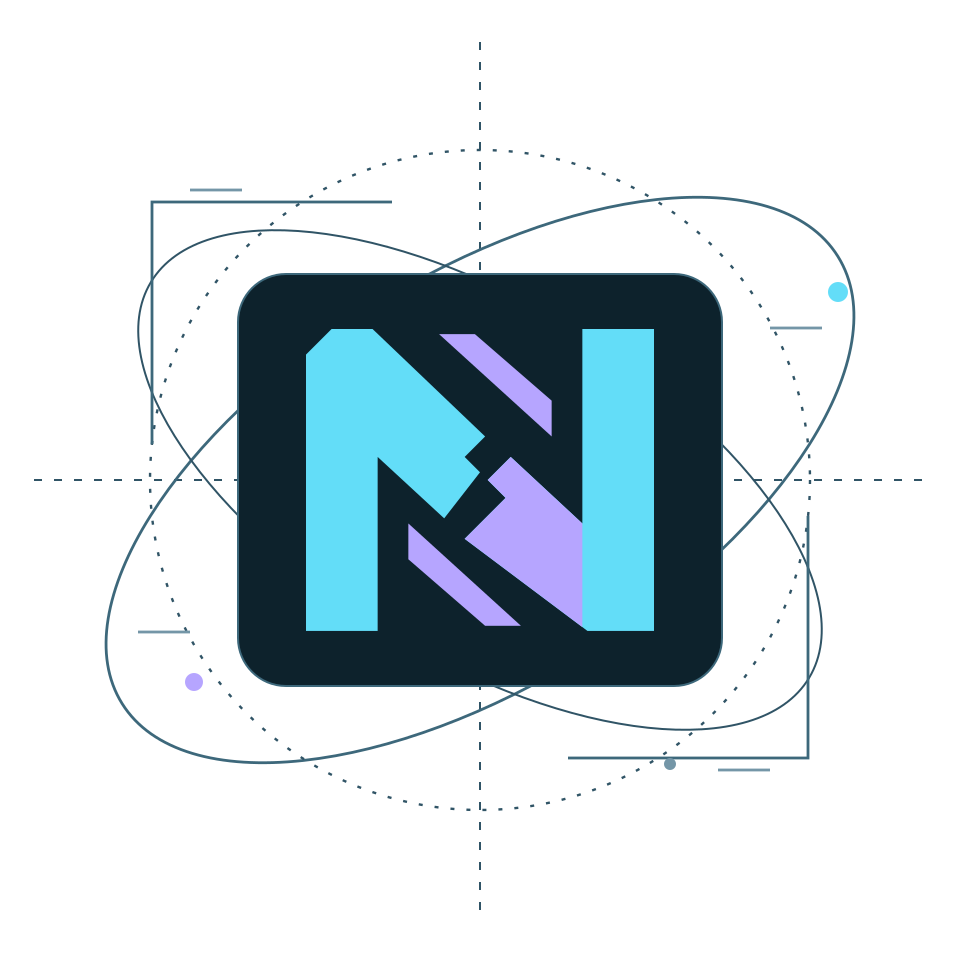
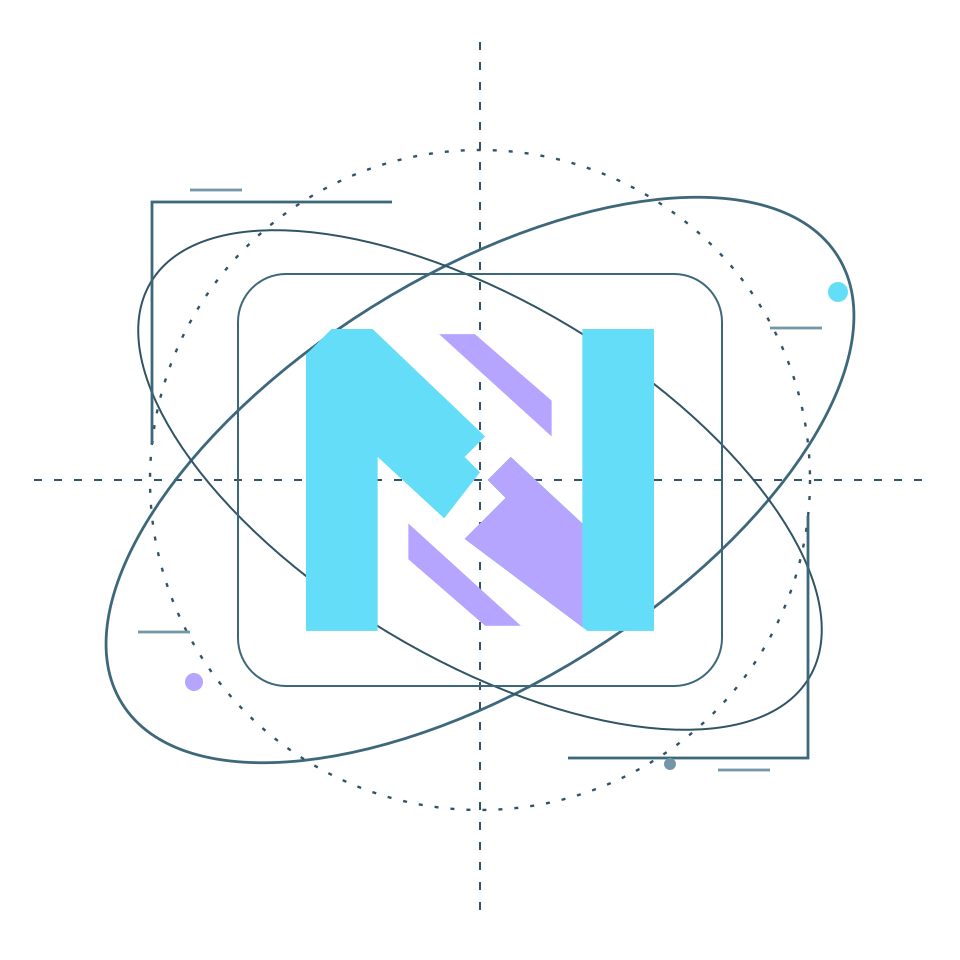
feat(web): refine hero space scene and transparent orbital mark
Keep the hero near-black in both color modes while preserving normal
brand themes below it. Switch navigation branding at the hero boundary
and resynchronize it after hydration, scrolling and viewport changes.

Increase the stellar field to 900 stars and generate organic nebula
masses using D3 density contours, fractal displacement and texture.
Separate static cloud geometry from stellar drift and refresh its
sub-pixel motion once per second instead of repainting it every frame.
Retain independent rotating tracks, orbiting globes and motion controls.

Make the central rounded frame transparent in both schematic variants
and regenerate matching PNGs. Add a foreground-only N asset so static
schematic fragments cannot show through behind the animated D3 tracks.
Record the user-approved visual direction and measured headless 4K
performance limitation without claiming a guaranteed frame rate.

Verification: 102 Vitest tests and all coverage thresholds passed;
ESLint and 32 Chromium checks passed. Verified SVG frame transparency
and zero-alpha PNG interiors, inspected refreshed viewport evidence,
and passed staged whitespace and Gitleaks checks.

Implemented-by: gpt-6.1-sol

Changed region(s): [[0.25, 0.2812, 0.75, 0.7188]]

diff --git a/space.js b/space.js
@@ -4,7 +4,7 @@
 
 const Space = (() => {
   let timer = null, media = null, stars = null, tracks = null, system = null;
-  let time = 0;
+  let time = 0, lastStarFrame = -1000;
   const orbits = [
     { rx: 211, ry: 102, tilt: -32, phase: 0.5, speed: 0.00026, spin: 0.002, radius: 7, color: 'cyan' },
     { rx: 192, ry: 89, tilt: 31, phase: 3.5, speed: -0.00019, spin: -0.0015, radius: 6, color: 'violet' },
@@ -13,7 +13,12 @@ const Space = (() => {
 
   function render(elapsed) {
     time = elapsed;
-    stars.attr('transform', (_d, i) => `translate(${Math.sin(elapsed / 45000 + i) * (i + 1) * 8},${Math.cos(elapsed / 60000 + i) * (i + 1) * 5})`);
+    // This sub-pixel drift is effectively unchanged between nearby frames.
+    // Repaint the distant stars once per second, independently of the orbits.
+    if (elapsed - lastStarFrame >= 1000) {
+      stars.attr('transform', (_d, i) => `translate(${Math.sin(elapsed / 45000 + i) * (i + 1) * 8},${Math.cos(elapsed / 60000 + i) * (i + 1) * 5})`);
+      lastStarFrame = elapsed;
+    }
     tracks.attr('transform', (orbit) => `rotate(${orbit.tilt + elapsed * orbit.spin})`);
     tracks.select('.orbital-globe')
       .attr('cx', (orbit) => Math.cos(orbit.phase + elapsed * orbit.speed) * orbit.rx)
@@ -40,10 +45,10 @@ const Space = (() => {
     if (media) media.removeEventListener('change', syncMotion);
     document.removeEventListener('ngen:motionchange', syncMotion);
     document.removeEventListener('visibilitychange', syncMotion);
-    document.querySelectorAll('.space-field, .orbit-scene').forEach((el) => el.remove());
+    document.querySelectorAll('.space-field, .space-star-field, .orbit-scene').forEach((el) => el.remove());
     system?.classList.remove('space-ready');
     media = stars = tracks = system = null;
-    time = 0;
+    time = 0; lastStarFrame = -1000;
   }
 
   function init() {
@@ -55,11 +60,44 @@ const Space = (() => {
     const field = d3.select(background).append('svg').attr('class', 'space-field')
       .attr('viewBox', '0 0 1600 1000').attr('preserveAspectRatio', 'xMidYMid slice').attr('aria-hidden', 'true');
     const random = d3.randomLcg(0.427);
-    stars = field.selectAll('g').data(d3.range(3)).join('g');
-    stars.selectAll('circle').data(() => d3.range(54).map(() => ({
+    const fieldDefs = field.append('defs');
+    // Static fractal texture is separate from the moving star layers.
+    const texture = fieldDefs.append('filter').attr('id', 'space-cloud-texture')
+      .attr('x', '-25%').attr('y', '-25%').attr('width', '150%').attr('height', '150%');
+    texture.append('feTurbulence').attr('type', 'fractalNoise').attr('baseFrequency', '0.003 0.005')
+      .attr('numOctaves', 3).attr('seed', 31).attr('result', 'structure');
+    texture.append('feDisplacementMap').attr('in', 'SourceGraphic').attr('in2', 'structure')
+      .attr('scale', 120).attr('xChannelSelector', 'R').attr('yChannelSelector', 'G').attr('result', 'shaped');
+    texture.append('feTurbulence').attr('type', 'fractalNoise').attr('baseFrequency', '0.008 0.014')
+      .attr('numOctaves', 3).attr('seed', 17).attr('result', 'grain');
+    texture.append('feColorMatrix').attr('in', 'grain').attr('type', 'matrix')
+      .attr('values', '1 0 0 0 0  0 1 0 0 0  0 0 1 0 0  0.3 0.3 0.3 0 -0.15').attr('result', 'cloud-alpha');
+    texture.append('feComposite').attr('in', 'shaped').attr('in2', 'cloud-alpha').attr('operator', 'in');
+    texture.append('feGaussianBlur').attr('stdDeviation', 2.5);
+    // Unequal, scattered gas concentrations produce branching contours and voids,
+    // not a chain of identical ovals or a constant-width diagonal ribbon.
+    const normal = d3.randomNormal.source(random)(0, 1);
+    const concentrations = [
+      [140, 760, 190, 120, 160], [340, 440, 110, 190, 180],
+      [630, 550, 180, 115, 130], [950, 280, 170, 90, 210],
+      [1270, 520, 110, 180, 150], [1510, 200, 210, 90, 190],
+      [1010, 780, 160, 65, 70],
+    ];
+    const gas = concentrations.flatMap(([x, y, sx, sy, count]) =>
+      d3.range(count).map(() => [x + normal() * sx, y + normal() * sy]));
+    const clouds = d3.contourDensity().x((point) => point[0]).y((point) => point[1])
+      .size([1600, 1000]).bandwidth(48).thresholds(32)(gas);
+    field.append('g').attr('class', 'space-nebula').attr('filter', 'url(#space-cloud-texture)')
+      .selectAll('path').data(clouds).join('path').attr('d', d3.geoPath())
+      .attr('fill', (_cloud, i) => i < clouds.length * 0.75 ? 'var(--space-violet)' : 'var(--space-cyan)')
+      .attr('opacity', (_cloud, i) => 0.012 + (i / clouds.length) * 0.035);
+    const starField = d3.select(background).append('svg').attr('class', 'space-star-field')
+      .attr('viewBox', '0 0 1600 1000').attr('preserveAspectRatio', 'xMidYMid slice').attr('aria-hidden', 'true');
+    stars = starField.selectAll('g.star-layer').data(d3.range(3)).join('g').attr('class', 'star-layer');
+    stars.selectAll('circle').data(() => d3.range(300).map(() => ({
       x: random() * 1660 - 30, y: random() * 1060 - 30,
-      radius: 0.4 + random() * 1.1, opacity: 0.15 + random() * 0.55,
-    }))).join('circle').attr('class', 'space-star')
+      radius: 0.3 + random() ** 3 * 1.8, opacity: 0.12 + random() * 0.76,
+    }))).join('circle').attr('class', 'space-star').attr('fill', 'var(--space-star)')
       .attr('cx', (star) => star.x).attr('cy', (star) => star.y)
       .attr('r', (star) => star.radius).attr('opacity', (star) => star.opacity);
 
@@ -69,9 +107,9 @@ const Space = (() => {
     for (const color of ['cyan', 'violet']) {
       const globe = defs.append('radialGradient').attr('id', `space-globe-${color}`)
         .attr('cx', '30%').attr('cy', '25%').attr('r', '75%');
-      globe.append('stop').attr('offset', '0%').attr('stop-color', 'var(--ngen-text)');
-      globe.append('stop').attr('offset', '32%').attr('stop-color', color === 'cyan' ? 'var(--ngen-accent)' : 'var(--ngen-secondary)');
-      globe.append('stop').attr('offset', '100%').attr('stop-color', 'var(--ngen-surface)');
+      globe.append('stop').attr('offset', '0%').attr('stop-color', 'var(--space-star)');
+      globe.append('stop').attr('offset', '32%').attr('stop-color', `var(--space-${color})`);
+      globe.append('stop').attr('offset', '100%').attr('stop-color', 'var(--space-shadow)');
     }
     scene.append('path').attr('d', 'M-223 0H223M0-219V219').attr('class', 'orbit-reference');
     tracks = scene.selectAll('g.orbit-track').data(orbits).join('g').attr('class', 'orbit-track');

diff --git a/styles.css b/styles.css
@@ -304,7 +304,32 @@ a.chip:hover {
 /* ----------------------------------------------------------------------------
    06. HERO + HUD FURNITURE
    ------------------------------------------------------------------------- */
+/* The user requested deep space in the hero in both modes, not the dashboard. */
+.hero, .nav.over-hero {
+  --bg-0: #020608;
+  --bg-1: #14313D;
+  --panel: rgba(20, 49, 61, 0.85);
+  --panel-solid: #14313D;
+  --panel-2: rgba(27, 64, 80, 0.65);
+  --ink-0: #DDF3F8;
+  --ink-1: #A9C5D0;
+  --ink-2: #A9C5D0;
+  --accent: #63DDF8;
+  --accent-2: #B6A5FF;
+  --accent-ink: #08212B;
+  --accent-dim: rgba(99, 221, 248, 0.08);
+  --line: #315362;
+  --line-strong: #7899A6;
+  --glow: 0 0 34px rgba(99, 221, 248, 0.16);
+}
+.nav.over-hero .brand-mark-dark { display: block; }
+.nav.over-hero .brand-mark-light { display: none; }
 .hero {
+  --space-star: #DDF3F8;
+  --space-cyan: #63DDF8;
+  --space-violet: #B6A5FF;
+  --space-shadow: #0E222C;
+  background: var(--bg-0);
   position: relative;
   min-height: 100svh;
   display: flex;
@@ -321,7 +346,7 @@ a.chip:hover {
   content: '';
   position: absolute;
   inset: 0;
-  background: radial-gradient(ellipse 62% 48% at 50% 42%, var(--accent-dim), transparent 70%);
+  background: radial-gradient(ellipse 100% 100% at 50% 50%, transparent 45%, rgba(0, 0, 0, 0.6));
   pointer-events: none;
 }
 
@@ -1845,33 +1870,34 @@ body.pkg-modal-open { overflow: hidden; }
 
 /* D3 simulation behind the supplied N. The full schematic is the no-JS fallback. */
 .space-background {
-  position: fixed; inset: 0; z-index: 0;
-  pointer-events: none; overflow: hidden; opacity: 0.55;
+  position: absolute; inset: 0; z-index: 0;
+  pointer-events: none; overflow: hidden;
 }
-.space-field { display: block; width: 100%; height: 100%; }
-.space-star { fill: var(--ngen-text); }
-[data-theme='light'] .space-star { fill: var(--ngen-accent); }
+.space-field, .space-star-field {
+  position: absolute; inset: 0; display: block; width: 100%; height: 100%;
+  transform: translateZ(0);
+}
+.space-star { fill: var(--space-star); }
 .orbit-scene { position: absolute; inset: 0; width: 100%; height: 100%; }
 .orbit-path, .orbit-reference {
-  fill: none; stroke: var(--ngen-control-border); stroke-width: 1.2;
+  fill: none; stroke: var(--line-strong); stroke-width: 1.2;
 }
 .orbit-path { opacity: 0.7; }
 .orbit-path-dashed { stroke-dasharray: 2 6; }
-.orbit-reference { stroke: var(--ngen-border); stroke-dasharray: 4 6; }
-.orbital-globe { stroke: var(--ngen-accent); stroke-width: 0.45; }
-.space-ready .orbital-art {
-  position: relative; z-index: 1;
-  clip-path: inset(28.4% 24.6%);
+.orbit-reference { stroke: var(--line); stroke-dasharray: 4 6; }
+.orbital-globe { stroke: var(--space-cyan); stroke-width: 0.45; }
+.orbital-core {
+  display: none; position: absolute; inset: 0; z-index: 1;
+  width: 100%; height: 100%;
 }
+.space-ready .orbital-art { display: none; }
+.space-ready .orbital-core { display: block; }
 .orbital-system {
   position: relative; display: block;
   width: clamp(260px, 42vw, 520px); aspect-ratio: 1;
   pointer-events: none;
 }
 .orbital-art { width: 100%; height: 100%; }
-.orbital-art-light { display: none; }
-[data-theme='light'] .orbital-art-dark { display: none; }
-[data-theme='light'] .orbital-art-light { display: block; }
 .motion-paused .ticker-track, .page-hidden .ticker-track { animation-play-state: paused; }
 .skip-link {
   position: fixed; left: 12px; top: -100px; z-index: 100;

diff --git a/tests/unit/space.test.js b/tests/unit/space.test.js
@@ -13,22 +13,34 @@ afterEach(() => Space.destroy());
 
 it('generates the stellar field and three orbital tracks with a globe on every track', () => {
   Space.init();
-  expect(document.querySelectorAll('.space-background svg')).toHaveLength(1);
+  expect(document.querySelectorAll('.space-background .space-field')).toHaveLength(1);
   expect(document.querySelectorAll('.space-star').length).toBeGreaterThan(80);
   expect(document.querySelectorAll('.orbit-track')).toHaveLength(3);
   expect(document.querySelectorAll('.orbit-track .orbital-globe')).toHaveLength(3);
   expect(document.querySelector('.orbital-system').classList.contains('space-ready')).toBe(true);
 });
+it('generates a dense star field and textured nebula clouds behind the hero', () => {
+  Space.init();
+  expect(document.querySelectorAll('.space-star').length).toBeGreaterThan(500);
+  expect(document.querySelectorAll('.space-nebula path').length).toBeGreaterThan(5);
+  expect(document.querySelectorAll('.space-nebula ellipse')).toHaveLength(0);
+  expect(document.querySelector('.space-field defs feDisplacementMap')).not.toBeNull();
+  expect(document.querySelector('.space-star').closest('svg')).not.toBe(document.querySelector('.space-nebula').closest('svg'));
+  expect(document.querySelector('.space-nebula feTurbulence, .space-field defs feTurbulence')).not.toBeNull();
+});
+
 it('animates tracks, globes and stars, and freezes their positions when paused', async () => {
   window.matchMedia.mockReturnValue({ matches: false, addEventListener() {}, removeEventListener() {} });
   Space.init();
   const track = document.querySelector('.orbit-track');
   const globe = document.querySelector('.orbital-globe');
-  const field = document.querySelector('.space-field g');
-  const before = [track.getAttribute('transform'), globe.getAttribute('cx'), field.getAttribute('transform')];
+  const field = document.querySelector('.star-layer');
+  const fieldTransform = () => field.style.transform || field.getAttribute('transform');
+  const before = [track.getAttribute('transform'), globe.getAttribute('cx'), fieldTransform()];
   await vi.waitFor(() => expect(track.getAttribute('transform')).not.toBe(before[0]));
   expect(globe.getAttribute('cx')).not.toBe(before[1]);
-  expect(field.getAttribute('transform')).not.toBe(before[2]);
+  expect(fieldTransform()).toBe(before[2]); // distant stars need no per-frame repaint
+  await vi.waitFor(() => expect(fieldTransform()).not.toBe(before[2]), { timeout: 1600 });
   document.body.classList.add('motion-paused');
   document.dispatchEvent(new Event('ngen:motionchange'));
   const paused = track.getAttribute('transform');
@@ -57,7 +69,7 @@ it('responds to reduced-motion changes and tab visibility without losing the sce
   await new Promise((resolve) => setTimeout(resolve, 90));
   expect(track.getAttribute('transform')).toBe(hidden);
   Space.destroy();
-  expect(document.querySelectorAll('.space-field, .orbit-scene')).toHaveLength(0);
+  expect(document.querySelectorAll('.space-field, .space-star-field, .orbit-scene')).toHaveLength(0);
   expect(document.querySelector('.orbital-system').classList.contains('space-ready')).toBe(false);
   expect(media.removeEventListener).toHaveBeenCalled();
 });

diff --git a/index.html b/index.html
@@ -20,8 +20,7 @@
 <body>
   <a class="skip-link" href="#main">Skip to content</a>
   <div class="scanlines" aria-hidden="true"></div>
-  <div class="space-background" aria-hidden="true"></div>
-  <header class="nav" id="top">
+  <header class="nav over-hero" id="top">
     <a class="nav-brand" href="#top" aria-label="NGEN home">
       <img class="brand-mark brand-mark-dark" src="brand/logos/svg/ngen-wordmark-dark.svg" alt="" />
       <img class="brand-mark brand-mark-light" src="brand/logos/svg/ngen-wordmark-light.svg" alt="" />
@@ -42,6 +41,7 @@
   </header>
   <main id="main">
     <section class="hero" id="hero">
+      <div class="space-background" aria-hidden="true"></div>
       <div class="hud hud-tl" aria-hidden="true">KYAU LABS // R&amp;D DIVISION</div>
       <div class="hud hud-tr" aria-hidden="true">NODE: github.com/kyaulabs/ngen</div>
       <div class="hud hud-bl" aria-hidden="true">PROTO: HTTPS / REST / JSON</div>
@@ -50,7 +50,7 @@
         <p class="hero-kicker reveal">[ C++20 // SPACE SIMULATION // GIT TELEMETRY ]</p>
         <h1 class="hero-title reveal" aria-label="NGEN"><span class="orbital-system" aria-hidden="true">
           <img class="orbital-art orbital-art-dark" src="brand/graphics/ngen-orbital-schematic-dark.svg" alt="" />
-          <img class="orbital-art orbital-art-light" src="brand/graphics/ngen-orbital-schematic-light.svg" alt="" />
+          <img class="orbital-core" src="assets/ngen-orbital-core.svg" alt="" />
         </span></h1>
         <div class="hero-sub">
           <p class="hero-tag reveal">A C++20 game engine for space simulators, with a focus on space MMOs. Engineered by KYAU Labs. <em>Observed here, live, as pure telemetry.</em></p>

diff --git a/app.js b/app.js
@@ -2441,6 +2441,8 @@ async function boot() {
   const nav = Utils.$('.nav');
   const syncScrollChrome = () => {
     nav?.classList.toggle('scrolled', window.scrollY > 12);
+    const hero = Utils.$('#hero');
+    nav?.classList.toggle('over-hero', Boolean(hero && hero.getBoundingClientRect().bottom > nav.offsetHeight));
     dockTicker(window.scrollY > 0);
   };
   window.addEventListener('scroll', syncScrollChrome, { passive: true });
@@ -2452,6 +2454,7 @@ async function boot() {
 
   /* Debounced rebuild keeps chart geometry honest across resizes. */
   window.addEventListener('resize', Utils.debounce(() => {
+    syncScrollChrome();
     if (STATE.data) Charts.buildAll(STATE.data);
   }, 220));
 
@@ -2482,6 +2485,7 @@ async function boot() {
   UI.renderAll(STATE.data);
   Charts.buildAll(STATE.data);
   Reveal.watchCounters();
+  syncScrollChrome();
   document.body.classList.add('loaded');
 }
 

diff --git a/DEVELOPMENT.md b/DEVELOPMENT.md
@@ -9,7 +9,7 @@ npm run build
 node tests/server.mjs
 ```
 
-Open `http://127.0.0.1:4173`. Build before serving: `index.html` loads generated `theme.min.js`, `space.min.js`, and `app.min.js`. Deploy those files with `index.html`, `styles.css`, `vendor/d3.min.js`, and `brand/`. Generated application scripts are ignored by Git.
+Open `http://127.0.0.1:4173`. Build before serving: `index.html` loads generated `theme.min.js`, `space.min.js`, and `app.min.js`. Deploy those files with `index.html`, `styles.css`, `vendor/d3.min.js`, `assets/`, and `brand/`. Generated application scripts are ignored by Git.
 
 ```sh
 npm run check
@@ -20,6 +20,6 @@ The check runs ESLint, Vitest with 95% aggregate coverage thresholds, the produc
 
 Repository metadata comes from the unauthenticated GitHub REST API, cached in session storage for ten minutes. On failure, counters use the dated public snapshot in `data/snapshot.json`, embedded in `app.js`; missing record feeds remain unavailable rather than simulated. Refresh both copies together. GitHub may return pending weekly statistics; the page marks them unavailable. Daily matrix cells estimate a distribution from weekly totals and are not exact daily observations.
 
-`space.js` uses the existing vendored D3 to generate a 162-star background and three rotating elliptical tracks with shaded orbiting globes, behind the supplied N artwork. Its timer is capped at 30 fps and stops for reduced motion, hidden tabs, or the pause control. Theme colors come from the brand tokens; no WebGL or new runtime dependency is required. If D3 is unavailable, the original schematic remains visible.
+`space.js` uses the existing vendored D3 to generate 900 stars, cyan/violet nebula clouds from density contours with fractal displacement/texture, and three rotating elliptical tracks with shaded orbiting globes behind the supplied N artwork. This near-black space treatment stays inside the hero in both modes; the dashboard retains its regular theme. Navigation branding switches when the header leaves the hero. Orbit updates are capped at 30 fps; the sub-pixel stellar drift refreshes once per second, on a separate SVG layer from the static nebula. The timer stops for reduced motion, hidden tabs, or the pause control. A local headless Chromium sample observed about 26 orbit updates/s at 1080p and 11 at 3840×2400; the timer ceiling is not a frame-rate guarantee, and hardware-accelerated desktop performance was not measured. Theme colors come from the brand tokens; no WebGL or new runtime dependency is required. `assets/ngen-orbital-core.svg` contains only the supplied N and its unfilled frame, so static orbit fragments cannot show through the transparent center beneath D3’s animated tracks. If D3 is unavailable, the full original schematic remains visible.
 
 The public default branch can differ from local engine development. Language counters describe the public default branch, not the engine’s intended implementation language. No game projects have been announced for the directory. A production origin was not supplied, so absolute Open Graph image/URL metadata must be added when deployment is configured.

diff --git a/DESIGN.md b/DESIGN.md
@@ -6,7 +6,9 @@ User direction: replicate `../prism-web` completely, using the supplied `brand/`
 - Point telemetry and source links at `kyaulabs/ngen`.
 - Replace Prism’s npm modules with games using the engine. The user selected an empty showcase: “No games announced yet.” Do not invent games.
 - Include source cloning, but do not claim cloning builds or installs a runnable engine.
-- The user additionally requested a D3 space simulation behind the N: a moving stellar field, three rotating orbit tracks, and shaded globes circling each orbit. Keep the supplied N upright; animate the surrounding geometry rather than the wordmark. Use the supplied dark/light schematics as the progressive-enhancement fallback. Honor reduced motion, pause while hidden, and offer a pause control.
+- After reviewing the first version, the user requested a darker, more space-like hero with more stars and nebulae. Keep this near-black space treatment in **both** modes, but **only inside the hero**; the dashboard below retains the brand’s normal dark/light themes. The navigation uses dark branding over the hero, then returns to the selected theme below it.
+- The user liked the darker star-and-nebula treatment but rejected the nebula’s regular ribbon shape. Use irregular cloud masses, branching wisps, and gaps rather than repeated ovals or a uniform band.
+- The user additionally requested a D3 space simulation behind the N: a dense moving stellar field, textured cyan/violet nebula clouds, three rotating orbit tracks, and shaded globes circling each orbit. Keep the supplied N upright; animate the surrounding geometry rather than the wordmark. The user approved the revised organic nebula and requested a transparent interior for the N’s central rounded square; retain its outline. Use the supplied dark/light schematics as the progressive-enhancement fallback. Honor reduced motion, pause while hidden, and offer a pause control.
 - Verify 390×844 mobile, 1920×1080, 3840×2160, and 3840×2400 desktops in both color modes, plus 320px reflow. `visual_review.json` covers mobile, 1080p, reflow, offline, and dialogs; browser tests cover the two larger desktop sizes.
 
 Quality targets: semantic HTML, WCAG 2.2 AA, visible keyboard focus, contained dialog focus, progressive enhancement, and responsive content without horizontal page overflow. Primary touch controls target 44×44 CSS pixels, stricter than AA’s 24×24 minimum with exceptions. Reduced-motion support is an additional motion-safety measure. Browser evidence is local, controlled test content—not a claim of full accessibility conformance or user visual approval.
